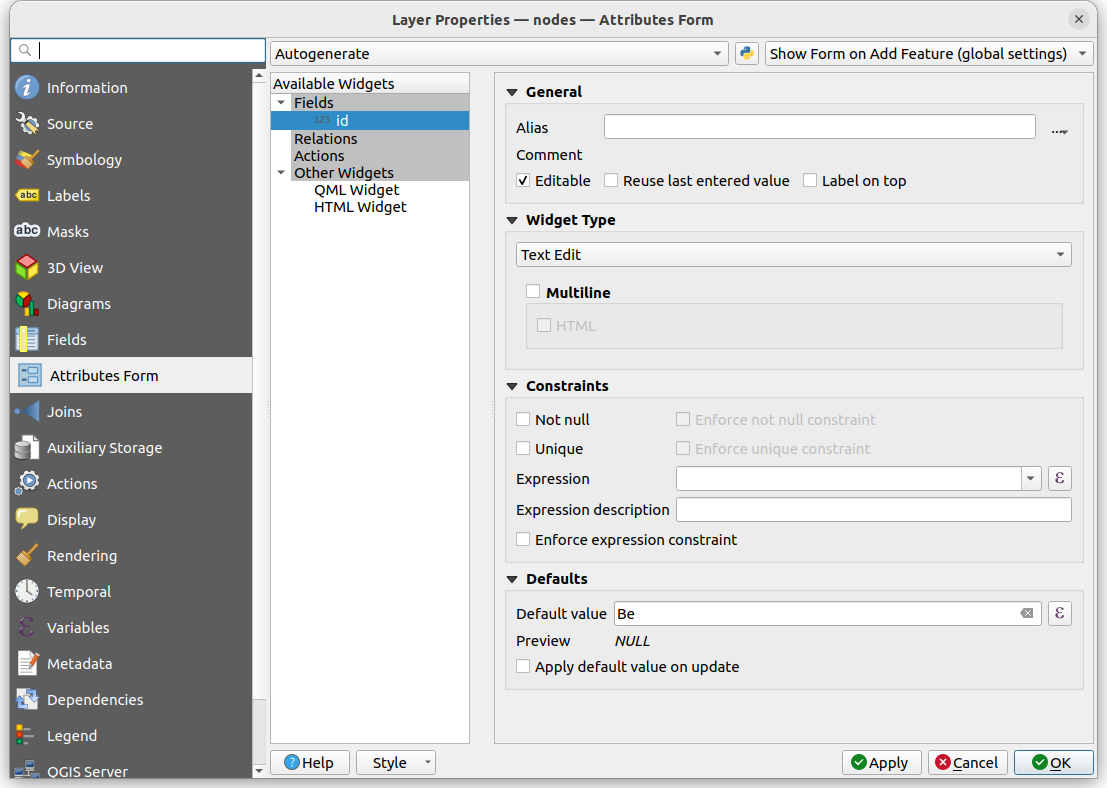
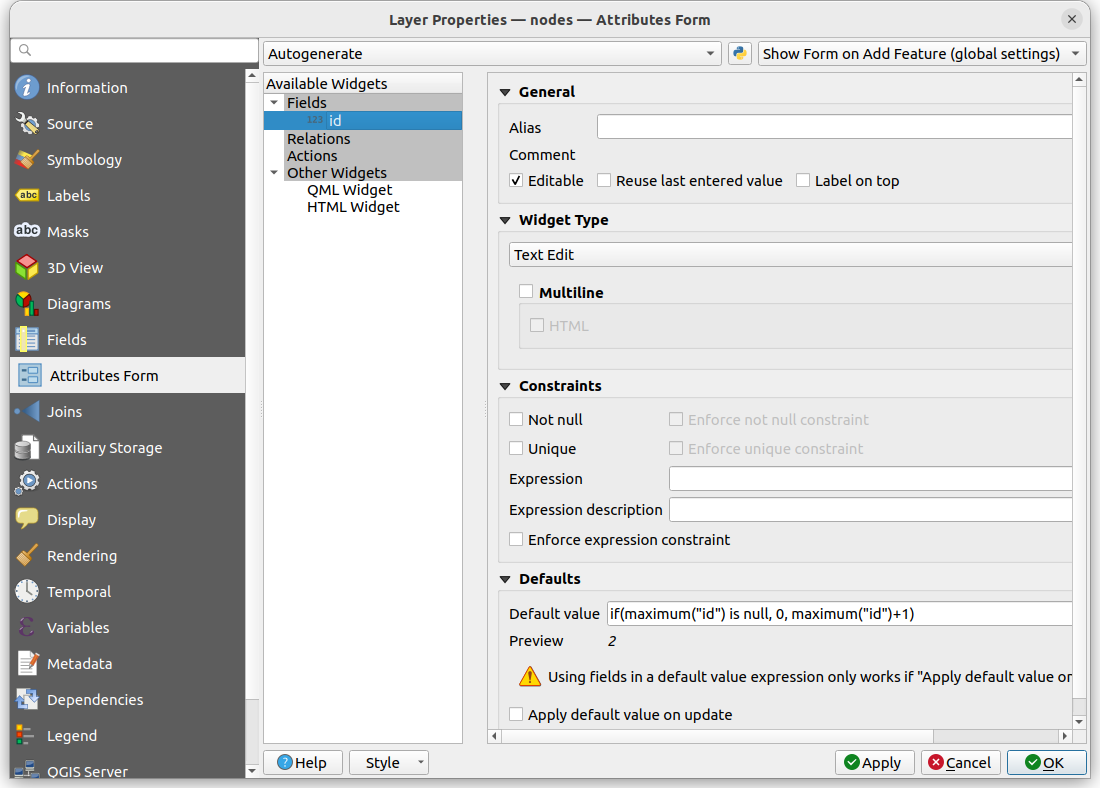
review

diff --git a/tutorials/docs/route_graph_generation.rst b/tutorials/docs/route_graph_generation.rst
@@ -18,9 +18,13 @@ Follow https://www.qgis.org/en/site/forusers/download.html to install QGIS.
 Tutorial Steps
 ==============
 
-1- Open QGIS and create a new project. Set the project coordinate reference system by selecting
-`project->properties->CRS`. Set the coordinate system to `WGS 84/ Pseudo-Mercator` which will work well for
-small and large scale maps.
+1- Open QGIS and create a new project by selecting `Project->New`. Save your project by selecting, `Project -> Save As`. 
+Set the project coordinate reference system by selecting `Project->Properties->CRS`. Set the coordinate system to `WGS 84/ Pseudo-Mercator` and click `OK`. 
+
+
+.. note:: 
+    The `WGS 84/ Pseudo-Mercator` is one of few coordinate systems that could be used. 
+    For more information about coordinate reference systems please review https://docs.qgis.org/3.22/en/docs/gentle_gis_introduction/coordinate_reference_systems.html. 
 
 |
 
@@ -31,11 +35,20 @@ small and large scale maps.
 
 |
 
-2- If you don't need to adjust your raster image to the map frame, click
-`Layer -> Add Layer -> Add Raster Layer`. Select your raster image and click `Add`.
+2- By default, the imported raster image origin will be at the top left corner, with x pointing to the right, and y pointing up.
+The size of the image in meters is equal to the equal to the size in pixels.
+To correctly set the orgin and the resolution we will georeference the raster image. 
+To georeference the image, three control points will choosen. Each control point maps a pixel location to the spatial reference. 
 
-3- If you need to adjust your raster image to the map frame, open the georeferencer tool
-by clicking `Raster -> Georefencer`. Set the trasformation settings to `Linear` for `Transformation 
+For example, let's say you have a 100 by 200 raster image with a resolution of 0.05 and a origin in the bottom left corner.
+The first control point we could select is (0, -200) -> (0,0). (0, -200) is the bottom left corner in the pixel frame and (0, 0) is coordinates in the spatial frame. 
+For the second control point we will select the top left corner of the image (0,0). The associated coordinates in the spatial frame can be calculated by using the resolution 
+to convert the pixels to meters. In this case, (0, 0) -> (0, 10). Where 10 m is 200 * 0.05. The last control will be the bottom right corner. (200,-200) -> (5, 0). 
+
+.. note:: 
+    Georeferencing is type of coordinate transformation that relates a digital raster image to a spatial reference. 
+
+To georeference image select `Raster -> Georefencer`. Set the `Trasformation Settings` to `Linear` for `Transformation 
 type`, `WGS 84/ Pseudo-Mercator` for `Traget SRS` and set your desired path for the `Output Raster`. 
 
 |
@@ -47,8 +60,9 @@ type`, `WGS 84/ Pseudo-Mercator` for `Traget SRS` and set your desired path for 
 
 |
 
-Select the raster image you wish to georeference and place at least three georeferencer control points. Apply the
-transformation.
+Select the raster image you wish to georeference and place control point by selecting the icon next to the `Transformation Settings` and clicking on the raster image. 
+The control points can be modified by clicking on the control point table and typing in new values. Once you are satified with your control points, apply the transformation
+by selecting `Start Transformation`. 
 
 |
 
@@ -59,7 +73,7 @@ transformation.
 
 |
 
-Drag and drop the raster file output into the layers window.
+Drag and drop the georeferenced raster file into the layers window.
 
 |
 
@@ -70,11 +84,13 @@ Drag and drop the raster file output into the layers window.
 
 |
 
-4- Now that we have the raster layer in the correct coordinate system we can start placing nodes.
+To verify the transformation worked, move the mouse around the raster image and look at the coordinates being displayed at the bottom of the window. 
+
+3- Now that we have georeferenced the raster layer we can start placing nodes.
 
 
 Select `Layer -> Create Layer -> New ShapeFile Layer`. Set the shapefile layer setting to be 
-`nodes` for the `File name`, `points` for the `Geometry type` and `WGS 84/ Pseudo-Mercator` for the coordinate system. Press `OK`. 
+`nodes` for the `File name`, `Point` for the `Geometry type` and `WGS 84/ Pseudo-Mercator` for the coordinate system. Press `OK`. 
 
 |
 
@@ -85,8 +101,8 @@ Select `Layer -> Create Layer -> New ShapeFile Layer`. Set the shapefile layer s
 
 |
 
-In order to have the `id` field auto increment, right click on the layer and select the `Attribute Form`. 
-Expand the `Fields` drop down menu and select `id`. Select the `Expression Dialog` that is next to the `Default value`. 
+In order to have the `id` field auto increment, right click on the layer and select the `Properties -> Attribute Form`. 
+Expand the `Fields` drop down menu and select `id`. Select the `Expression Dialog` icon which is next to the `Default value` field. 
 
 |
 
@@ -98,7 +114,7 @@ Expand the `Fields` drop down menu and select `id`. Select the `Expression Dialo
 |
 
 
-Within the `Expression Dialog` select `Import user expressions` and import `increment_node_id.json`. Expand `User expressions` and double click on `increment_node_id`. 
+Within the `Expression Dialog` select `Import user expressions` and import `increment_node_id.json` which exists in the scripts file with the nav2 route module. Expand `User expressions` and double click on `increment_node_id`. 
 The expression should show up in the left window. Click `OK` to save the expression and exit the `Expression Dialog`. Then click `Apply` and `OK` and save and exit the `Attributes Form`.
 This will increment the node `id` by one every time a new node is added. The first node `id` will be zero. 
 
@@ -112,7 +128,8 @@ This will increment the node `id` by one every time a new node is added. The fir
 |
 
 
-Click on the node layer and then on the pencil icon to start editing the layer. To add points, click on `Add points feature`. Start adding nodes by clicking in the main window. 
+Click on the node layer and then on the pencil icon to start editing the layer. To add points, click on `Add points feature`. Start adding nodes by clicking in the main window.
+Each time a node is added, a window will pop up with the auto incremented id. Press `OK` to continue placing points.
 
 |
 
@@ -123,8 +140,14 @@ Click on the node layer and then on the pencil icon to start editing the layer. 
 
 |
 
+.. note:: 
+    By default, if a node deleted the id list will not be updated. It is up to the user to determine how they wish to update the ids if individual
+    or multiple nodes are deleted. Any node that is added will contiune to increment based on the highest id. This value can be overwriten by the user 
+    though the pop window after node placement or though the `Attribute Table`. To delete features in a layer right click on the layer and select `Open Attribute Table`. 
+    Click on `Target Multi Edit Mode`, select the features to delete, and click on the trash can icon.     
 
-5- Now an edge layer can be created. Select `Layer -> Create Layer -> New ShapeFile Layer`. Set the shapefile layer setting to be 
+
+4- Now an edge layer can be created. Select `Layer -> Create Layer -> New ShapeFile Layer`. Set the shapefile layer setting to be 
 `edges` for the `File name`, `LineString` for the `Geometry type` and `WGS 84/ Pseudo-Mercator` for the coordinate system. Press `OK`.
 To auto incrment the `id` field follow the same steps as above except replace `increment_node_id.json` with `increment_edge_id.json`. 
 This will increment the edge `id` by one every time a new edge is added. The first edge `id` will be `10000`. 
@@ -138,7 +161,7 @@ This will increment the edge `id` by one every time a new edge is added. The fir
 
 |
 
-Click on the edge layer and then on the pencil icon to start editing the layer. To add edges, click on `Add Line feature`. Start addig edges by clicking twice in the main window. 
+Click on the edge layer and then on the pencil icon to start editing the layer. To add edges, click on `Add Line feature`. Start adding edges by clicking twice in the main window. 
 (First point is start, second point is end). Press `Esc` when you have finished adding the two points.  
 
 |
@@ -150,13 +173,18 @@ Click on the edge layer and then on the pencil icon to start editing the layer. 
 
 |
 
+.. note:: 
+    To see the directionality of the edges, right click on the edge layer and select `Properties`. Click `Symbology -> Simple Line` and change the `Symbol layer type` to `Arrow`.
+    Click `Ok`. You should now be able to see arrows for each line string.  
 
-7- Now that we have our node and edge layers, we can associate node IDs with edge IDs. 
 
+5- Now that we have our node and edge layers, we can associate node IDs with edge IDs. 
 Select `Database -> DB manager`. Expand `Virtual layers` and expand `Project layers`. Open up
-the SQL window by clicking on the script icon in the top left corner. In the SQL window load in the association script by selecting `Load File`. 
-Execute the script. Load the new layer by checking the `Load as new layer` box and clicking `Load`. The script associates the start and end of a line by matching the node 
-point to the line string end or start point. We will refer to this new layer as `connected_edges`. 
+the SQL window by clicking on the script icon in the top left corner. In the SQL window load in `generate_start_and_end_id.sql` by selecting `Load File`. 
+The script can found within the scripts directory in the nav2_route module.  
+Execute the script. Load the new layer by checking the `Load as new layer` box and clicking `Load`. The script associates the start and end of a line string by matching the node 
+point. Then export the layer as a ShapeFile by right clicking on the layer selecting `Export -> Save Feature As`. Change the format to type to `ESRI Shapefile`, name the file, and verify that the 
+coordinate reference system is `WGS 84 /Pseudo-Mercator`. Press `OK`. 
 
 |
 
@@ -167,12 +195,12 @@ point to the line string end or start point. We will refer to this new layer as 
 
 |
 
-8- We are now ready to export the node and edge layer as geojson files. Execute `export_shapefiles.py <prefix_of_file> <path_to_connected_edges_shapefile> <path_to_nodes_shapefile>`. 
-This script converts the nodes and edges shape file into a geojson file. 
+6- We are now ready to export the node and edge layer as geojson files. Execute `export_shapefiles.py <prefix_of_file> <path_to_edges_shapefile> <path_to_nodes_shapefile>`
+within the scripts directory located in the nav2_route module. This script converts the nodes and edges shape file into a geojson file. 
 
-9- Congratulations! Your graph is ready to be consumed by the nav2 route! If you wish to add nodes or edges to your graph, 
-edit the layers and repeat the proccess from step 6. If you wish to adjust the graph, make sure `Editing` is toggled on for the 
-node and edge layer. Then select `Vertex Tool(all Layers)` and toggle on `Topological Editing`. Repeat the proccess from step 7. 
+7- Congratulations! Your graph is ready to be consumed by the nav2 route! If you wish to add nodes or edges to your graph, 
+edit the layers and repeat the proccess from step 5 to regenerate the graph. If you wish to adjust the graph, make sure `Editing` is toggled on for the 
+node and edge layer. Then select `Vertex Tool(all Layers)` and toggle on `Topological Editing`. Repeat the proccess from step 5 to regenerate the graph. 
 
 
 Happy Routing!
